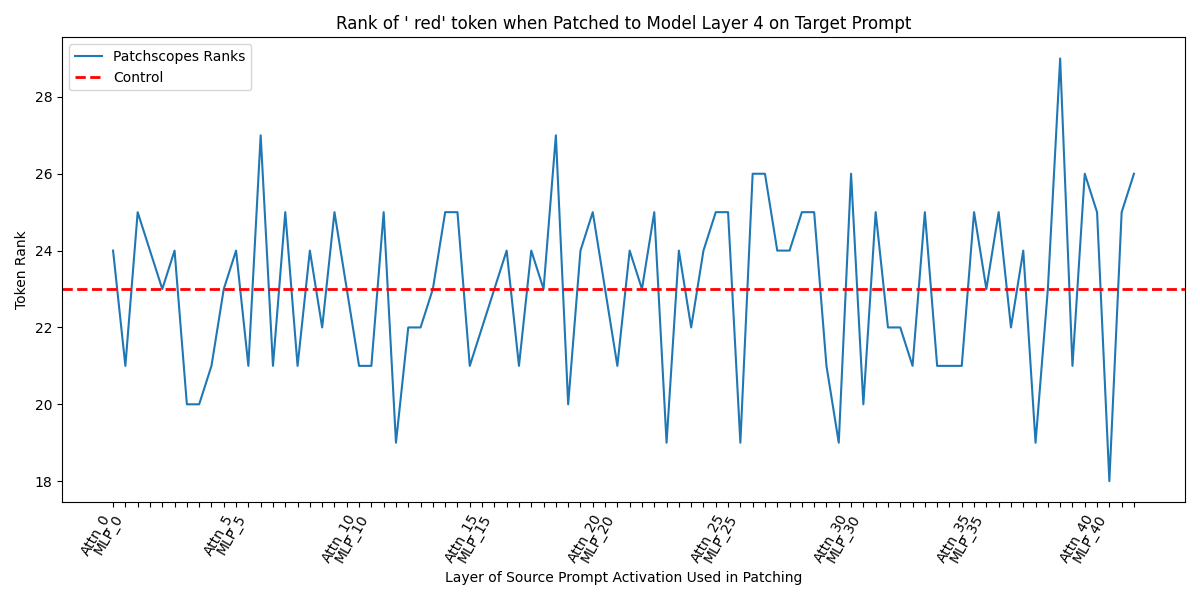
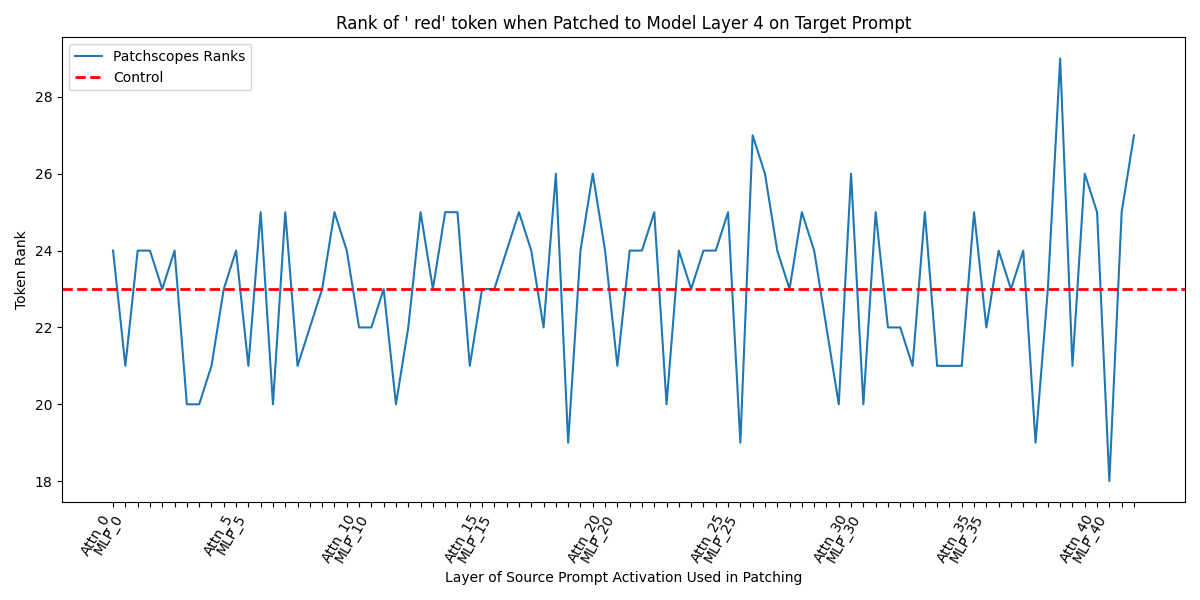
added check to see that unusual attribute can be retrieved

diff --git a/experiments/patch_layers.py b/experiments/patch_layers.py
@@ -37,8 +37,9 @@ def main(config):
 
 
     # Run the model to get the hidden states
-    print("Getting the hidden states from source...")
-    model(source_inputs)
+    print("Can the model retrieve the correct attribute...")
+    validity_check = model(source_inputs)
+    print(validity_check.logits[0, -1].argsort().flip(0).tolist().index(target_tk))
 
     # Remove the hooks
     for hook in hooks:
@@ -112,9 +113,9 @@ def main(config):
 config = {
     "exp_name": "red",
     "model_name": "google/gemma-2-9b",
-    "source_input": "A red mouse and a blue cat went to the market.",
+    "source_input": "<Context> A red mouse and a blue cat went to the market. </Context> The color of the mouse is",
     "target_input": "banana:yellow, apple:red, grass:green, sky:blue, x:",
-    "pos": 3
+    "pos": 6
 }
 
 if __name__ == "__main__":
